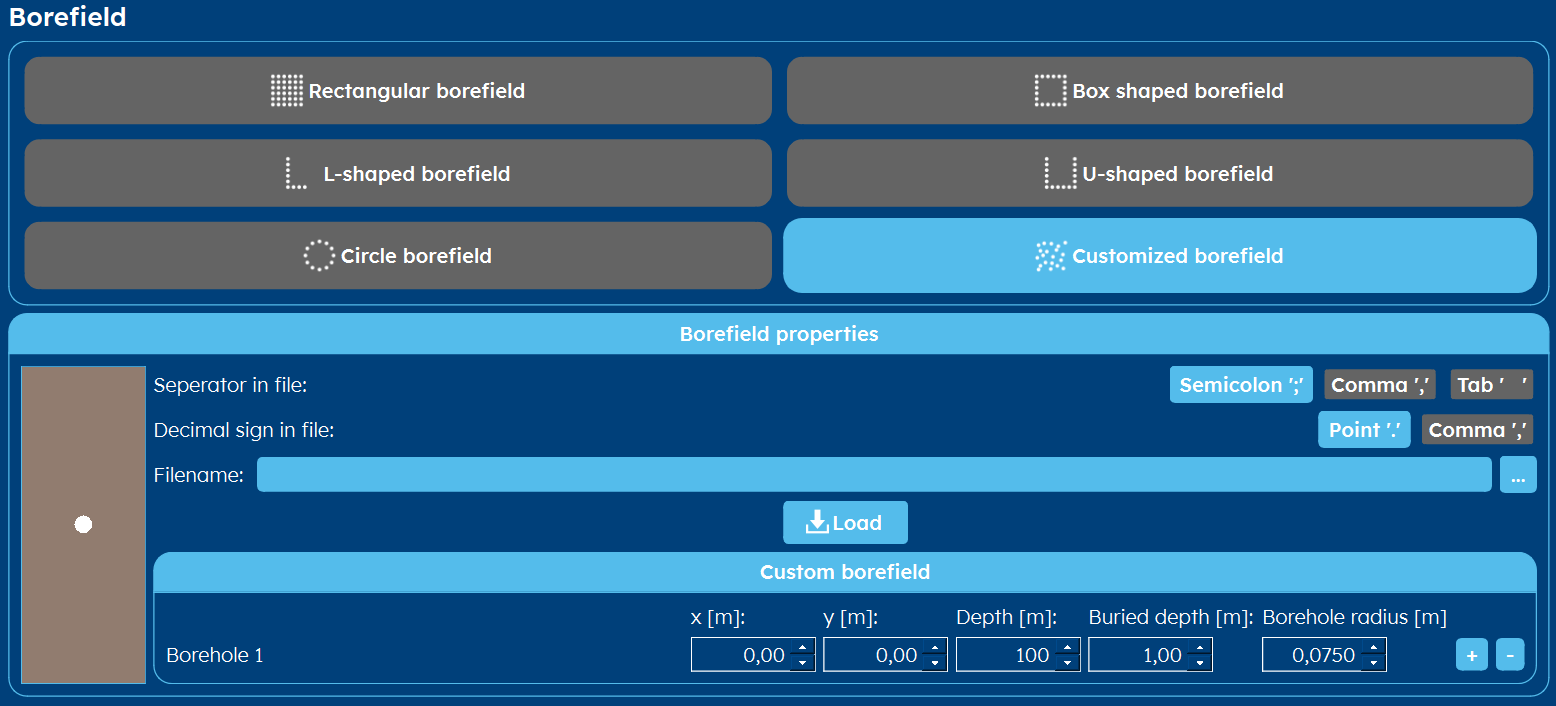
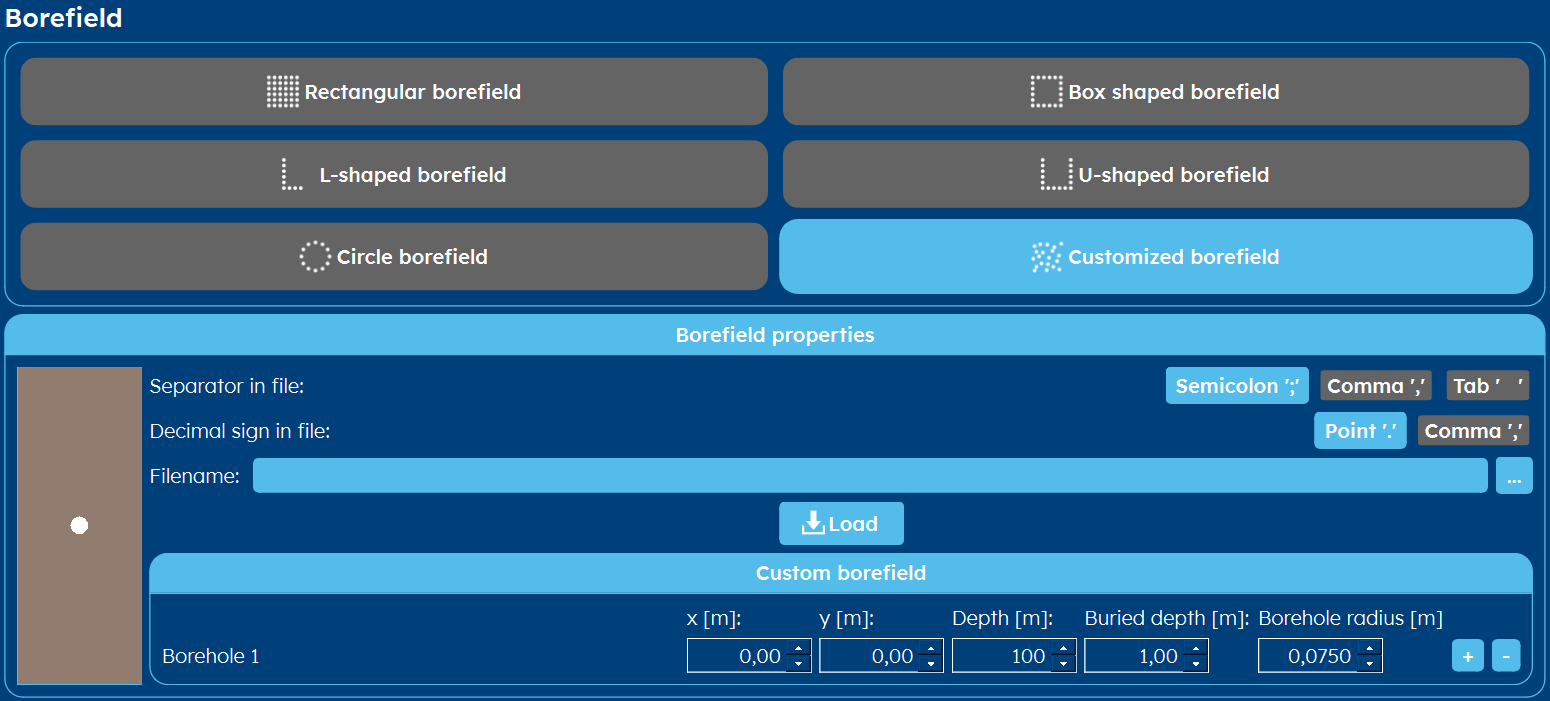
Add tutorial with custom borefield data

Changed region(s): [[0.0, 0.0, 1.0, 1.0], [0.0929, 0.5392, 0.2168, 0.5692], [0.0929, 0.6591, 0.1548, 0.689]]

diff --git a/docs/sources/tutorial/create_custom_borefield.rst b/docs/sources/tutorial/create_custom_borefield.rst
@@ -4,6 +4,50 @@ How can I Importing a custom borefield
 ######################################
 In this tutorial you will learn how you can create a custom borefield in Excel and import it into GHEtool.
 
-#. First you need to open Excel and start a new project.
-#. You have to set the columns to: *x(m), y(m), depth(m), buried(m), radius(m)*. Although the exact column names are not
-   that important
+Create custom borefield in Excel
+================================
+
+First you need to open Excel and start a new project.
+Next, you have to set the columns to: *x(m), y(m), depth(m), buried(m), radius(m)*. Although the exact column names are not
+that important, it is easy for you to work with.
+
+.. image:: Figures/excel_with_colums.png
+  :alt: Excel file with columns
+  :width: 350
+  :align: center
+
+Next, you enter the data for all the different boreholes like in the figure below.
+
+.. image:: Figures/excel_with_data.png
+  :alt: Excel file with data
+  :width: 350
+  :align: center
+
+.. note::
+    Note that we are using here a point '.' as the decimal sign.
+
+Now, you are going to save this document as a csv-file. This can be done by going to:
+File > save as, select as a file format 'CSV UTF-8' and press save. Now you have created your own custom borefield in excel.
+
+Import custom borefield into GHEtool
+====================================
+Next, we are going to import this data into GHEtool. To do so, go to the tab :ref:`tab borefield` and click on *Custom borefield*.
+
+.. image:: ../tabs/Figures/borefield_custom.png
+  :alt: Custom borefield
+
+There, click on the three dots next to *Filename* and go to the location where you saved the csv-file previously and open it.
+Select as a separator ';' and as a decimal sign '.' and press *load*.
+
+.. tip::
+    If you are uncertain what the separator and the decimal sign is, try opening your csv file first in notepad.
+    There, it is easier to see what both separator and decimal sign are.
+
+The custom borefield should now be loaded into GHEtool, ready to work with!
+
+.. image:: Figures/custom_data_loaded.png
+  :alt: GHEtool with a custom borefield
+
+.. note::
+    Please note that in your case, the location of your csv-file will be visible in the Filename-box.
+    Here it is removed for privacy reasons.

diff --git a/docs/sources/tabs/borefield.rst b/docs/sources/tabs/borefield.rst
@@ -104,14 +104,15 @@ For larger borefields, it can be easier to create the custom borefield elsewhere
 
 .. image:: Figures/csv_data.png
   :alt: Custom borefield
-  :width: 400
+  :width: 350
+  :align: center
 
 #. Open the file where you have entered the borefield data
-#. Select the correct separator of the csv-file and decimal point
+#. Select the correct separator of the csv-file and decimal sign
 #. Press load and your borefield should be automatically imported. Now you can change it to whatever you want.
 
 .. tip::
-    If you don't see your borefield loaded in correctly, try to change your separator or decimal point and try loading again.
+    If you don't see your borefield loaded in correctly, try to change your separator or decimal sign and try loading again.
     This is a common issue.
 
 .. warning::
